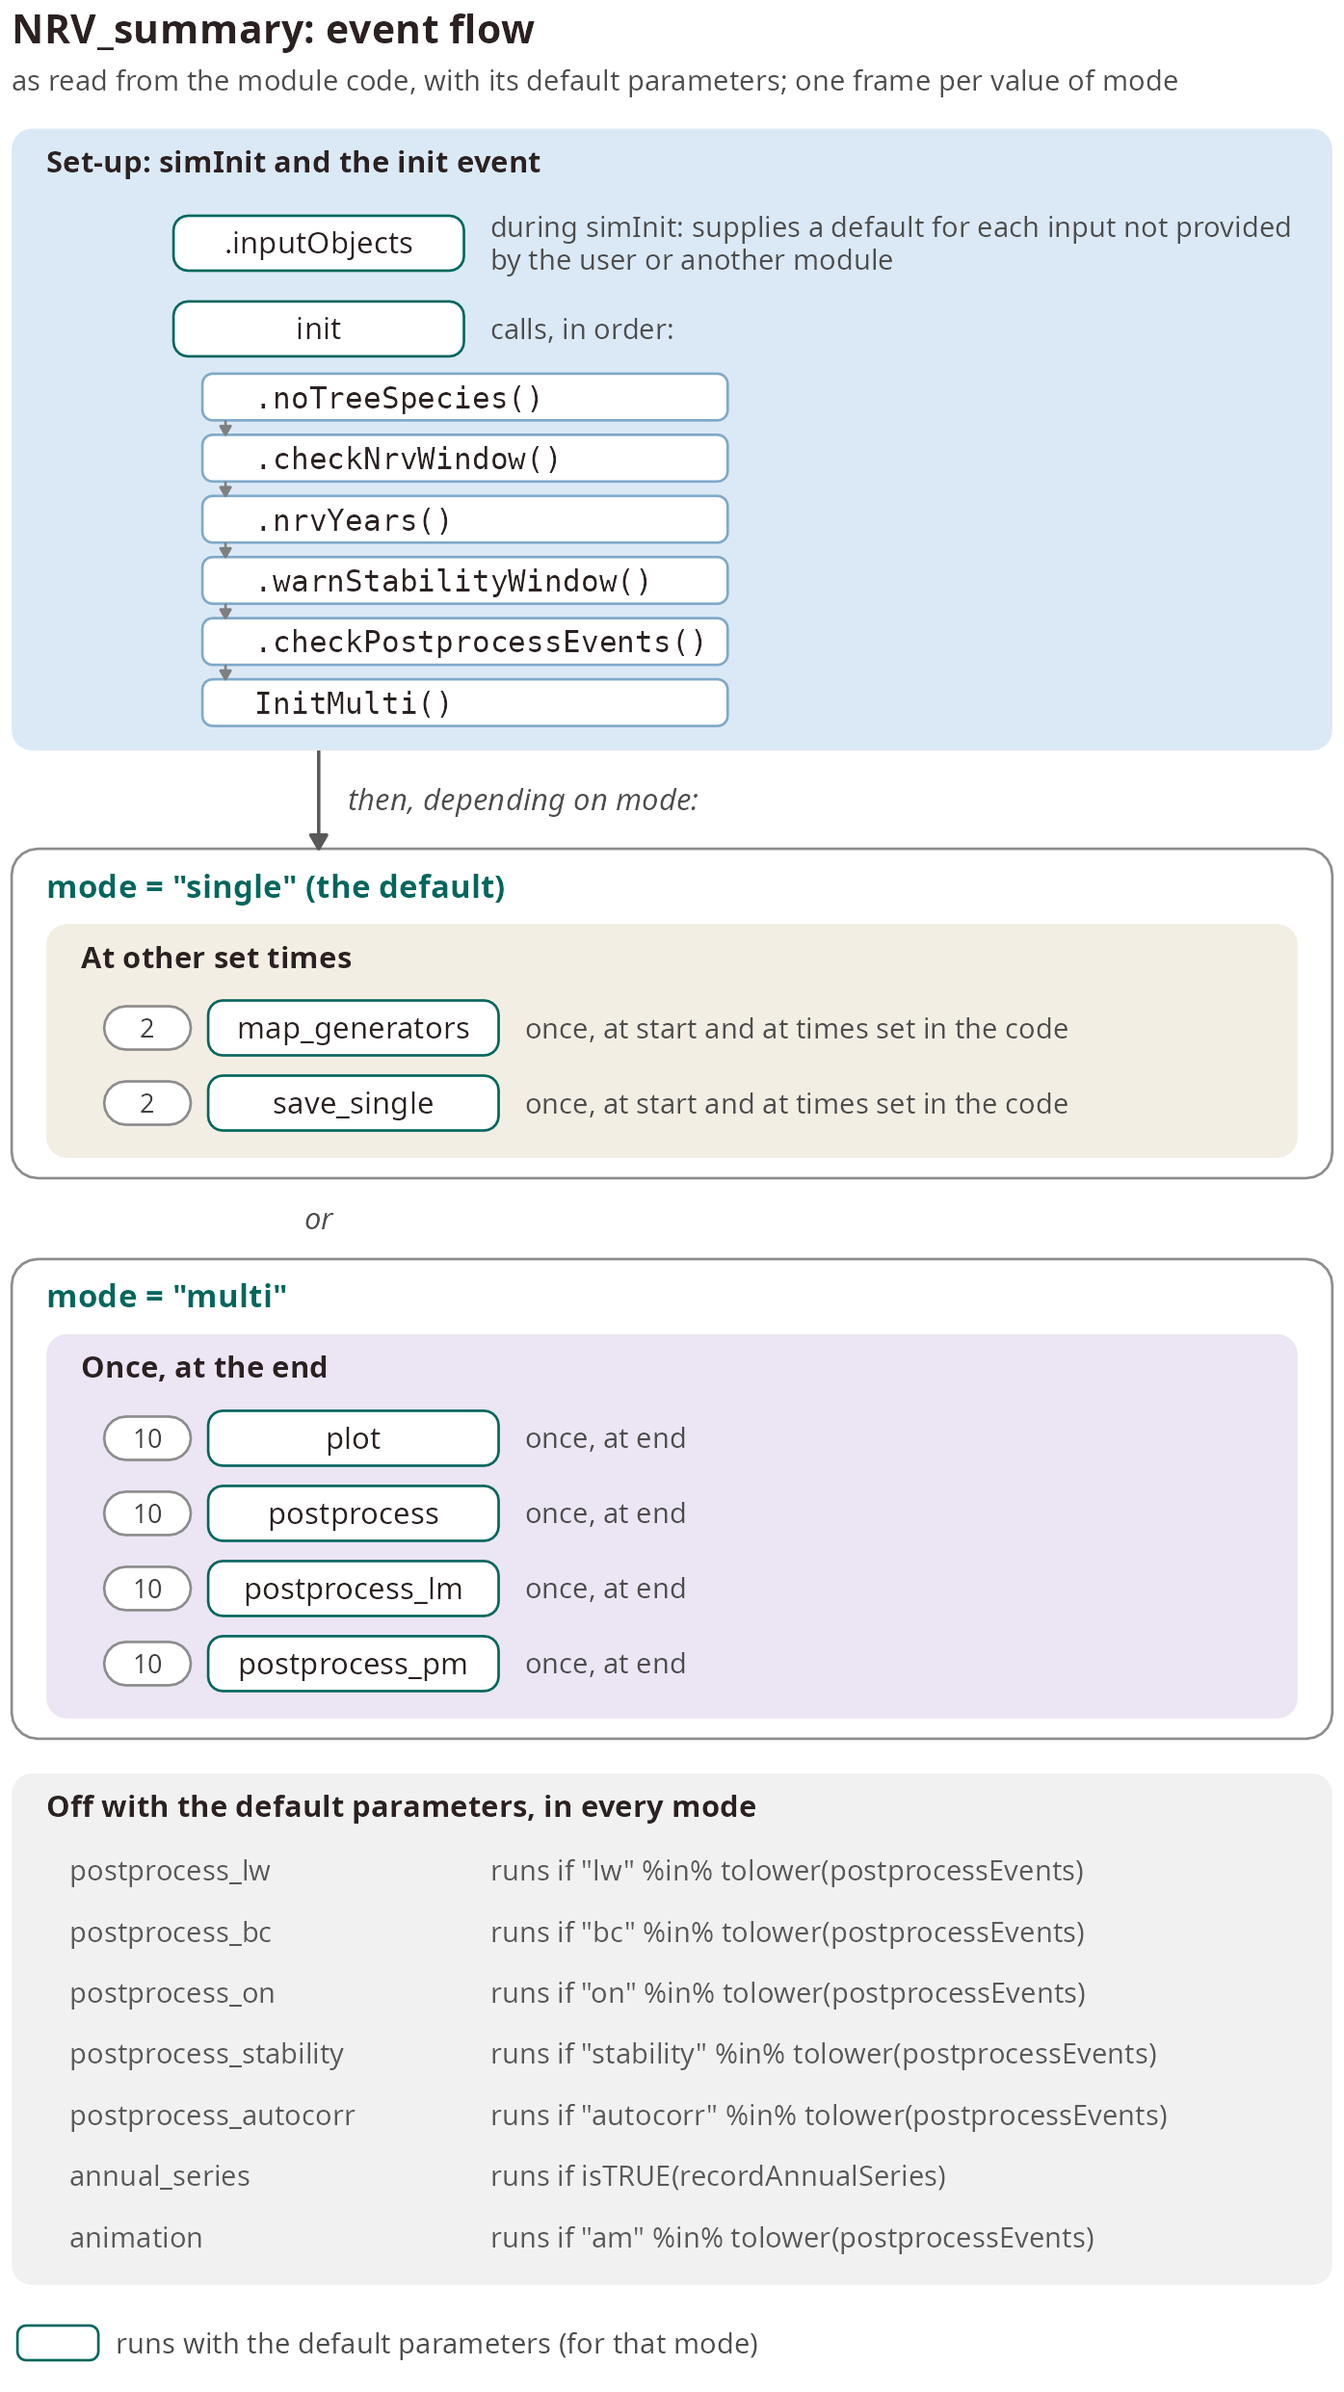
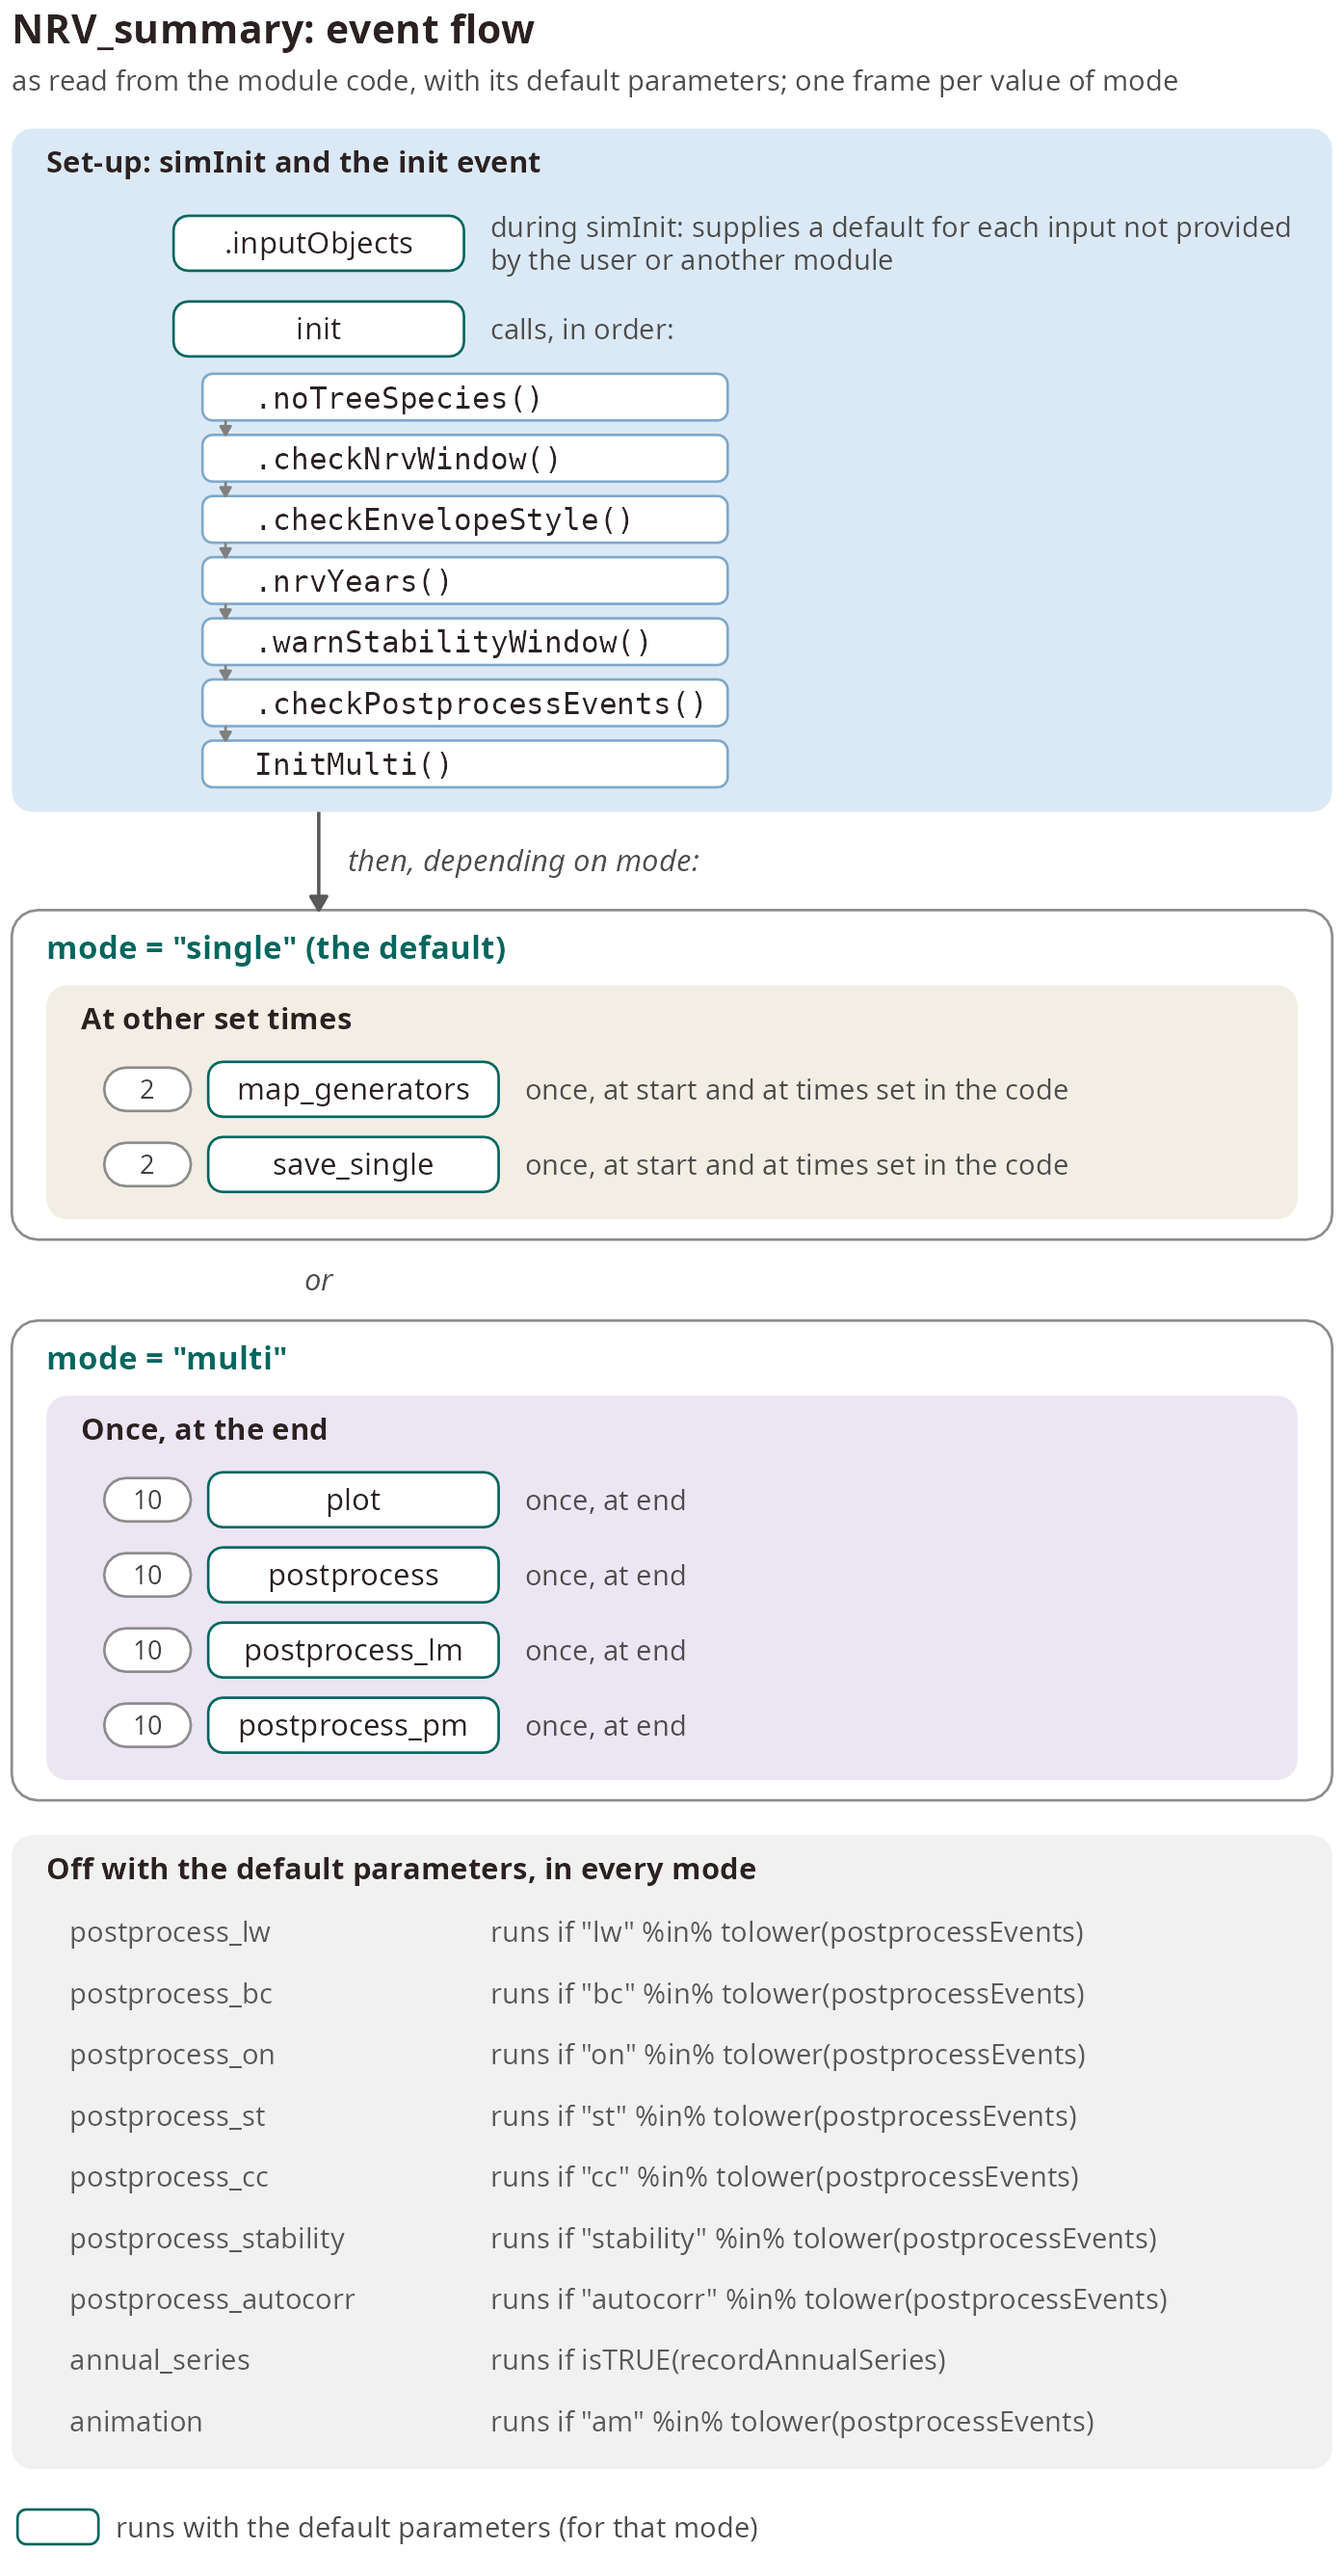
Re-build NRV_summary.Rmd

diff --git a/NRV_summary.md b/NRV_summary.md
@@ -1,6 +1,6 @@
 ---
 title: "NRV_summary Manual"
-subtitle: "v.2.0.0.9044"
+subtitle: "v.2.0.0.9045"
 date: "Last updated: 2026-11-25"
 output:
   bookdown::html_document2:
@@ -248,6 +248,15 @@ Summary of user-visible parameters (Table \@ref(tab:moduleParams-NRV-summary)).
    <td style="text-align:left;"> TRUE </td>
   </tr>
   <tr>
+   <td style="text-align:left;"> envelopeStyle </td>
+   <td style="text-align:left;"> character </td>
+   <td style="text-align:left;"> ribbon </td>
+   <td style="text-align:left;"> NA </td>
+   <td style="text-align:left;"> NA </td>
+   <td style="text-align:left;"> (mode = 'multi') how the lm and pm envelope figures show the replicates: `"ribbon"` (default) draws the range of the replicates as a band around their mean; `"lines"` draws one thin grey line per replicate under a bold line for their median (`nrvtools::plot_nrv_envelope(type = "lines")`). The files keep their names (`&lt;subregion&gt; &lt;metric&gt;_ribbon.png`, `&lt;metric&gt;_ribbon_p&lt;N&gt;.png`). The replicate values are read once per reporting layer; a layer whose aggregates hold none gets ribbons, and a message says so. The boxplot figures and the per-class pages are the same in both styles. </td>
+   <td style="text-align:left;"> TRUE </td>
+  </tr>
+  <tr>
    <td style="text-align:left;"> plotWorkers </td>
    <td style="text-align:left;"> integer </td>
    <td style="text-align:left;"> 8 </td>
@@ -262,7 +271,7 @@ Summary of user-visible parameters (Table \@ref(tab:moduleParams-NRV-summary)).
    <td style="text-align:left;"> lm, pm </td>
    <td style="text-align:left;"> NA </td>
    <td style="text-align:left;"> NA </td>
-   <td style="text-align:left;"> Specify which subset of postprocessing events to run. At least one of: 'am' for the stand-age time-series animation (GIF); 'bc' for BC seral stage patch metrics; 'lm' for default landscape metrics; 'lw' for default LandWeb summaries 'pm' for default patch metrics; 'on' for ON patch metrics; 'autocorr' for the autocorrelation time of the annual landscape series (`annualSeries.csv`, from `recordAnnualSeries = TRUE`), the correlation between snapshots `summaryInterval` years apart and a recommended thinning interval; `autocorrelation.csv` and its figure. Not in the default: it runs only when asked for. 'stability' for the check that the run is long enough (is each metric still trending over the end of the NRV period?), `stability.csv` and its figures, and, with 'lm' in the same run, the current-condition overview of each lm layer. Not in the default: it runs only when asked for. Any other value is an error ('fd', forest degradation indicators, is not implemented). </td>
+   <td style="text-align:left;"> Specify which subset of postprocessing events to run. At least one of: 'am' for the stand-age time-series animation (GIF); 'bc' for BC seral stage patch metrics; 'lm' for default landscape metrics; 'lw' for default LandWeb summaries 'pm' for default patch metrics; 'on' for ON patch metrics; 'st' for stand-level measures (age-class, leading-type and forested shares, total biomass) at each summary time, from the saved snapshots (`st.csv`, `st_CC.csv`, `st_nrvComparison.csv`) and their figures; with 'stability' in the same run they are tested too. With 'lm' in the same run, also the NRV comparison tables, `csv/lm/&lt;layer&gt;/lm_nrvComparison.csv`, which say where the current condition falls against the NRV range. Not in the default: it runs only when asked for. 'cc' for one figure per reporting layer and unit with the lm and st metrics against the NRV (`figures/all/&lt;layer&gt;/&lt;unit&gt;.png`), with 'lm' or 'st' in the same run: it draws the comparisons those events record. The stand-level rows go on the figure of every unit named like the study area (`.studyAreaName`); with no such unit they have a figure of their own, `figures/all/&lt;studyArea&gt;/&lt;studyArea&gt;.png`. With 'cc' in the run, the 'lm' event also writes the NRV comparison tables. Not in the default: it runs only when asked for. 'autocorr' for the autocorrelation time of the annual landscape series (`annualSeries.csv`, from `recordAnnualSeries = TRUE`), the correlation between snapshots `summaryInterval` years apart and a recommended thinning interval; `autocorrelation.csv` and its figure. Not in the default: it runs only when asked for. 'stability' for the check that the run is long enough (is each metric still trending over the end of the NRV period?), `stability.csv` and its figures, and, with 'lm' in the same run, the current-condition overview of each lm layer. Not in the default: it runs only when asked for. Any other value is an error ('fd', forest degradation indicators, is not implemented). </td>
    <td style="text-align:left;"> TRUE </td>
   </tr>
   <tr>
@@ -463,6 +472,21 @@ raising ImageMagick's `policy.xml` memory/disk limits (see
 [LandWeb #153](https://github.com/PredictiveEcology/LandWeb/issues/153)). With `gifski`
 **no such system configuration is required**.
 
+Two more events are opt-in (not in the default `postprocessEvents`), and both read the
+current condition and the NRV range of each metric.
+`"st"` takes the stand-level measures from the replicates' saved snapshots at each summary time:
+the share of the forest in each age class, the forested share of the area, the share of the area
+led by each type (the mixed class included) and the total biomass (forested cells only).
+It writes `csv/st/<studyArea>/st.csv`, `st_CC.csv` (the current condition) and
+`st_nrvComparison.csv` (whether the current condition is inside, above or below the NRV range),
+and its figures (see *Plotting*).
+With `"lm"` in the same run, `csv/lm/<layer>/lm_nrvComparison.csv` is written as well, from the
+landscape-level rows, and with `"stability"` the stand series are tested too.
+`"cc"` draws, for each reporting layer and unit, one figure with the current condition of the lm
+metrics and the stand-level (st) measures against their NRV ranges (the pm, lw and bc metrics are
+not on it), from the comparisons the `lm` and `st` events record (it needs one of them in the run).
+It runs after them and before the `plot` event.
+
 The autocorrelation check is opt-in in two parts. In `mode = "single"`,
 `recordAnnualSeries = TRUE` adds an `annual_series` event for every simulated year (about a
 thousand events per replicate) that writes `annualSeries.csv` beside the replicate's other
@@ -551,13 +575,13 @@ Table \@ref(tab:eventObjects-NRV-summary) lists, for each object, the code that 
   </tr>
 </tbody>
 <tfoot><tr><td style="padding: 0; " colspan="100%">
-<sup></sup> Not shown, off with the default parameters: postprocess_lw, postprocess_bc, postprocess_on, postprocess_stability, postprocess_autocorr, annual_series, animation. Not shown, touching no object in the metadata: .inputObjects, init: .checkNrvWindow(), init: .nrvYears(), init: .warnStabilityWindow(), init: .checkPostprocessEvents(), save_single, postprocess. Not traced to any code (e.g. reached indirectly): cohortData, flammableMap, pixelGroupMap, speciesLayers, sppColorVect, standAgeMap.</td></tr></tfoot>
+<sup></sup> Not shown, off with the default parameters: postprocess_lw, postprocess_bc, postprocess_on, postprocess_st, postprocess_cc, postprocess_stability, postprocess_autocorr, annual_series, animation. Not shown, touching no object in the metadata: .inputObjects, init: .checkNrvWindow(), init: .checkEnvelopeStyle(), init: .nrvYears(), init: .warnStabilityWindow(), init: .checkPostprocessEvents(), save_single, postprocess. Not traced to any code (e.g. reached indirectly): cohortData, flammableMap, pixelGroupMap, speciesLayers, sppColorVect, standAgeMap.</td></tr></tfoot>
 </table>
 
 
 #### .noTreeSpecies() {-}
 
-init event, step 1 of 6
+init event, step 1 of 7
 
 ![](figures/NRV_summary_io_init_.noTreeSpecies.png){width=100%}
 
@@ -565,7 +589,7 @@ init event, step 1 of 6
 
 #### InitMulti() {-}
 
-init event, step 6 of 6
+init event, step 7 of 7
 
 ![](figures/NRV_summary_io_init_InitMulti.png){width=100%}
 
@@ -613,6 +637,11 @@ In `mode = "multi"`, `plotFun` writes these figures for each reporting-polygon l
   Patch metrics have a panel per vegetation type. A patch-level metric (patch area, median stand
   age of a patch) enters as each replicate's mean over its patches, so the envelope spans the
   replicates, as for the class-level metrics.
+  With `envelopeStyle = "lines"` (default `"ribbon"`), the ribbon figures show instead one thin grey
+  line per replicate under a bold line for their median (the files keep their names,
+  `<subregion> <metric>_ribbon.png` and `<metric>_ribbon_p<N>.png`).
+  The replicate values are read once per layer; a layer without any gets ribbons, and a message says so.
+  The boxplot figures are the same in both styles.
 - `lm/<layer>/per-metric/`: the envelopes of each landscape metric with a panel per subregion,
   up to 12 panels to a page.
 - `pm/<layer>/per-metric/`: box and violin plots of each patch metric for each vegetation type,
@@ -626,6 +655,17 @@ In `mode = "multi"`, `plotFun` writes these figures for each reporting-polygon l
   `boxplots/<layer>/<subregion> share of forest.png` has a panel per age class and a box per
   leading type of its share of the subregion's forested area.
 - `sspm/<layer>/`: the BC seral patch metrics (`bc`), one paginated envelope figure-set per metric.
+- `st/<studyArea>/` (only with `"st"` in `postprocessEvents`): `stand_age.png`,
+  `stand_leading.png` (only when some type leads at least 0.5% of the area, in the replicates or
+  today) and `stand_biomass.png` (the replicates over time, their median and the current
+  condition), `species/lead_<code>.png` for each leading type (in the replicates or today), and
+  `current_condition_overview_p<N>.png` (where each stand-level measure's current condition lies
+  against its NRV range, paged). The folder is emptied when the event runs.
+- `all/<layer>/<unit>.png` (only with `"cc"` in `postprocessEvents`, and `"lm"` or `"st"`): every
+  metric of the unit with its current condition against the NRV range, rescaled to 0-1 and clipped at
+  the axis limits (the true value is kept). The stand-level rows are on the figure of each unit named
+  like the study area, else on `all/<studyArea>/<studyArea>.png`. The folder is emptied when the event
+  runs.
 - `stability/all/` (only with `"stability"` in `postprocessEvents`): the check that the run is
   long enough, with pages of series over time (reps as thin lines, the median in bold, the stability
   window shaded, the verdict in each panel's title) and a summary of the verdicts. With `lm` in the
